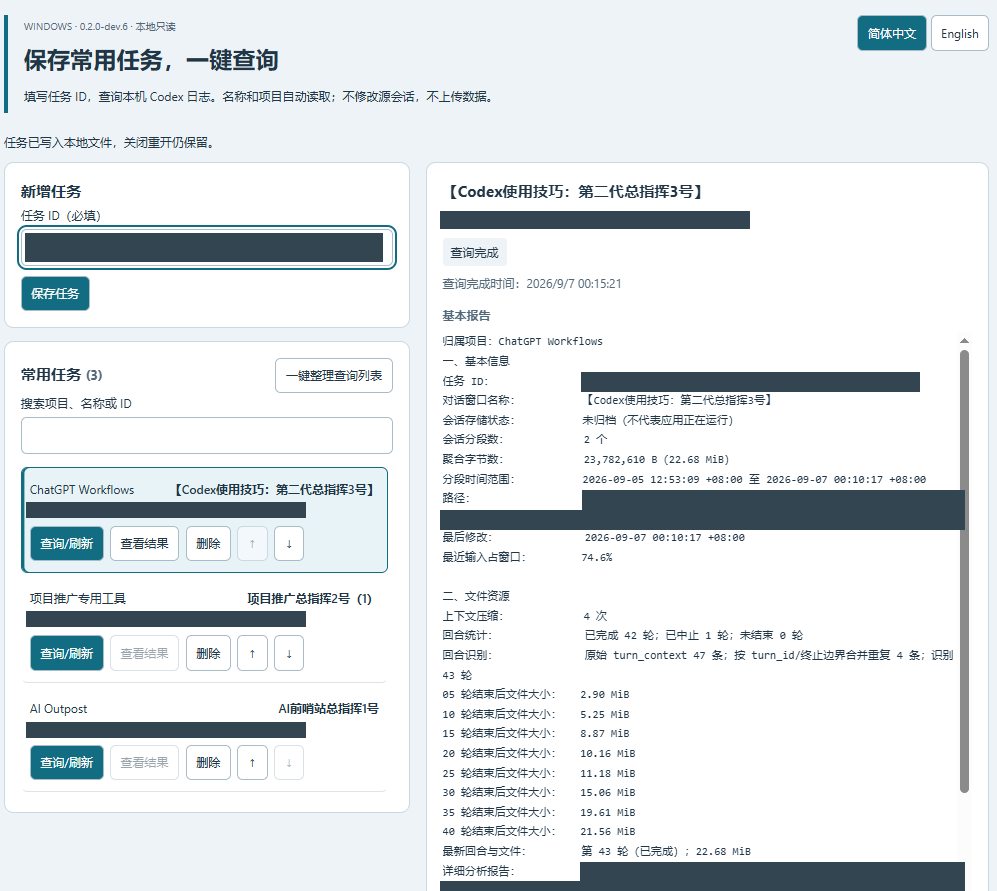
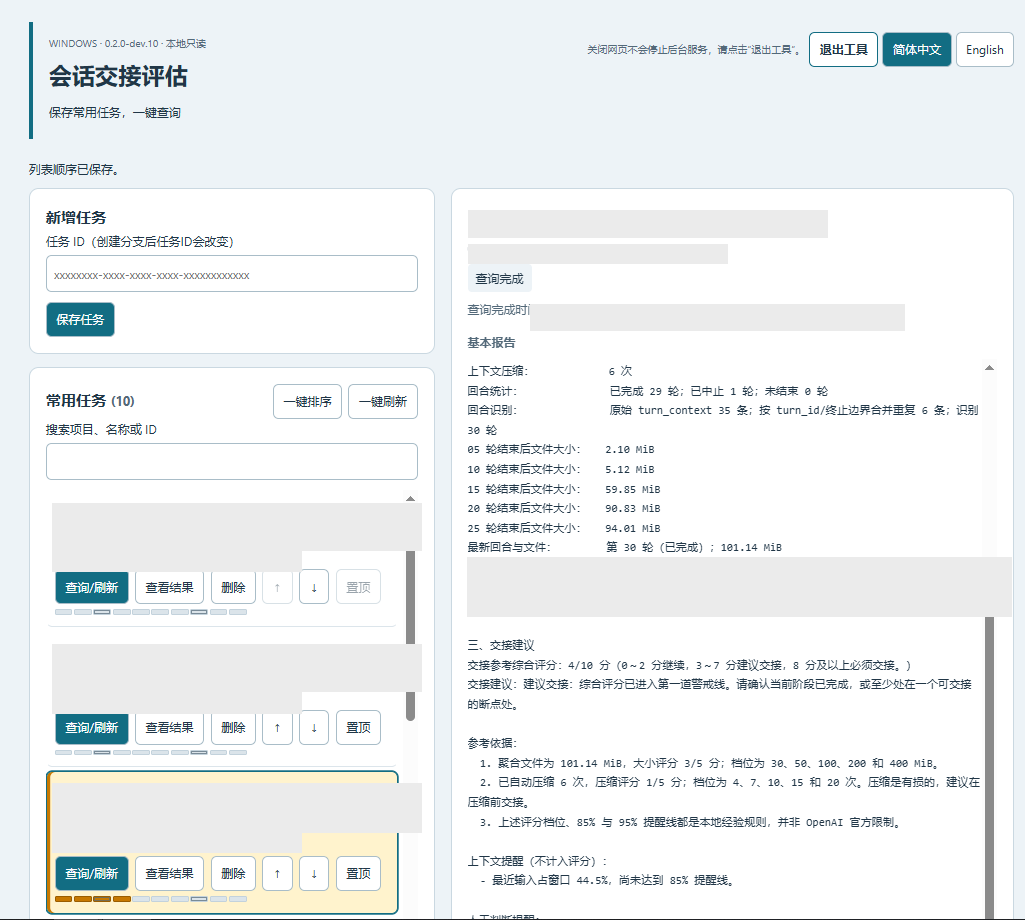
docs: add redacted showcases and English workflow entry

Changed region(s): [[0.0, 0.0, 0.995, 1.0], [0.5597, 0.0, 0.995, 0.0909]]

diff --git a/CHANGELOG.md b/CHANGELOG.md
@@ -2,6 +2,94 @@
 
 本文件记录 ChatGPT Workflows 的重要变更。
 
+## 未发布：强化“无需回传”消息的双通道反馈门禁
+
+- 将“无需向来源回传”和“必须向操作者可见反馈”拆成收到消息后的强制双通道分流步骤。
+- 明确要求立即输出已收到、实际状态和下一步；把空输出、仅工具卡片或平台完成标记列为反馈缺失，避免新任总指挥将“无需回执”误解为“无需任何输出”。
+
+### English summary
+
+- Turn the distinction between “no reply to the source” and “visible feedback to the operator is still required” into a mandatory two-channel routing step.
+- Require an immediate received/status/next-step message and classify empty output, tool cards alone, or a platform completion flag as missing feedback, preventing new commanders from interpreting “no ACK” as “no output”.
+
+## 未发布：会话交接评分第二道警戒线与十格滑条
+
+- 将交接参考分扩展为 0～10 分：文件体积与自动压缩次数各贡献 0～5 分，3 分进入“建议交接”，8 分（含 8）进入“必须交接”。
+- 任务卡片新增 10 格静态滑条、3/8 细刻度、悬停与键盘聚焦提示，并保留旧快照无评分字段时的兼容显示。
+- 上下文占用不混入会倒退的总分，85% 和 95% 改为独立提醒；这些档位是本地经验规则，不是官方限制。
+
+### English summary
+
+- Extend the handoff reference score to 0–10: file size and automatic compaction each contribute 0–5 points, with 3 entering **Handoff recommended** and 8 (inclusive) entering **Handoff required**.
+- Add a static 10-segment task-card slider with subtle 3/8 ticks and hover/focus text, while keeping legacy snapshots without score fields compatible.
+- Keep sawtooth context usage out of the cumulative score and show separate 85% and 95% reminders. These bands are local heuristics, not official limits.
+
+## 未发布：heartbeat工具结果关联失败400的证据分流
+
+- 在TRB-007补充heartbeat后持续工具结果关联失败的来源样本、匿名错误及快速处置分流，与会话过长400和自动化实例更新失败分别判断。
+- 区分来源方日志复核、本窗口报告指纹核验及官方API契约；保留请求转换与实际运行版本缺口，不把新分支可用、社区方案或曝光目标当作修复通过。
+- 反馈优先检索已有同类报告，仅在最终授权后补充最小证据；本轮未发布、修改代理、重放业务或重建自动化。
+
+### English summary
+
+- Add a source-reported case of persistent tool-output association errors after a heartbeat to TRB-007, with an anonymized signature and a separate HTTP 400 routing entry.
+- Distinguish source-side log inspection, report fingerprint verification, and the public API contract. Runtime versions and request transformations remain unverified; a working branch or community workaround does not establish a fix.
+- Prefer relevant existing reports and require final authorization before sharing minimal evidence. No publishing, proxy changes, business replay, or automation recreation was performed.
+
+## 未发布：明确总指挥交接附件与标准模板
+
+- 场景6交付明确默认主附件、补充材料条件、接收窗口及场景6A完整标准模板位置，避免操作者在多个材料入口间猜测。
+- 自动创建受阻时提供同一标准流程的人工路径；保留候选只读、停止旧写者、最终确认和必要成果可访问的门禁，不将一个快照当作跨位置源码包。
+
+### English summary
+
+- Identify the primary handoff attachment, when additional materials are required, the recipient, and the full Scene 6A template instead of leaving users to choose among multiple links.
+- Provide the same standard manual path when automated task creation is unavailable. Preserve read-only candidate verification, stopping the previous writer, final confirmation, and access to required artifacts; a snapshot is not a source transfer package.
+
+## 未发布：补齐长会话长度400的路线对照边界
+
+- 补充同一旧任务在操作者报告切换官方账号后短回复成功、切回中转后再次长度拒绝的观察；区分平台可见结果、操作者说明和未核验的实际出站路线。
+- 不再把新建任务作为唯一恢复方式；保留停止故障路线重复投递、保护未提交成果及有限验收边界，不将短回复成功当作完整业务恢复。
+
+### English summary
+
+- Record a successful short reply in the same existing task after a user-reported switch to direct account sign-in, followed by another length rejection after switching back to a relay. Separate observed outcomes, user reports, and unverified outbound routing.
+- Keep recovery options open while stopping repeated submissions on the failing route. Preserve uncommitted work and require scoped validation; a short reply does not establish full workflow recovery.
+
+## 未发布：PR审阅修复与合并后本地接续
+
+- PR标准第8节补充审阅、CI与冲突修复的影响分析和定向复验，核对隔离发布分支与未提交开发成果的包含关系，不因提交号不同就认定内容分叉。
+- 第10.1节明确按实际合并结果选择本地接续方式，不默认反向合并或覆盖工作区；补充回归留证、定位、修复与回退边界，并分开报告合并、接续和运行验收状态。
+- 沿用既有成果契约和发布/同步路由，不新增场景、提示词或长表，不扩大本地、远端和部署授权。
+
+### English summary
+
+- Add impact analysis and targeted revalidation for review, CI, and conflict fixes, including content mapping between release branches and uncommitted development work.
+- Clarify local continuation after the actual merge result, without automatic reverse integration or overwriting working trees. Preserve regression evidence and distinguish code, deployment, and data recovery.
+- Reuse existing artifact and synchronization contracts without adding prompt entry points or granting new permissions.
+
+## 未发布：合并操作手册重复提示词
+
+- 2B 与 4A 共用人工反馈模板，允许如实填写未执行或不确定，并保留对象匹配、验收证据和返工权限边界。
+- 2F 的补充反馈与收口后返工共用一个入口，由 AI 核对批次及有限返工条件；3A/3B 共用协作队列模板，保留全量、增量及不可靠截点升级规则。旧编号和定位链接继续可用。
+- 精简 2B/2D 选择说明、2C 预期结果和 6B 恢复说明；交接准备、候选核验、正式切换及其他不同权限入口仍分开，不以合并模板扩大授权。
+
+### English summary
+
+- Share one manual feedback prompt between 2B and 4A, preserving unperformed and uncertain results, evidence matching, and rework permissions.
+- Consolidate ongoing and post-completion feedback in 2F, and share one queue prompt between 3A and 3B. Keep bounded rework, full and incremental scans, checkpoint validation, and legacy navigation.
+- Shorten repeated explanations while keeping handoff preparation, candidate verification, formal switching, and distinct permission boundaries separate.
+
+## 未发布：场景 6 默认接续未提交成果
+
+- 合并重复的交接补充提示词，场景 6 单一入口明确覆盖未提交修改、必要新文件与详细证据；场景 6A 要求候选回读实际成果，不以摘要或提交号代替。
+- 区分同工作区保留、跨位置恢复和编辑器未保存内容。交接快照不等于代码传输，不新增创建任务、通信、打包、覆盖或远端权限；无法取得的必要内容继续标为缺口。
+
+### English summary
+
+- Consolidate the duplicate handoff prompt. Scene 6 includes uncommitted changes, required new files and evidence by default; Scene 6A requires reading the actual artifacts rather than relying on a summary or commit identifier.
+- Distinguish keeping files in the same worktree, restoring them elsewhere and unsaved editor buffers. A handoff snapshot does not transfer code or grant task creation, messaging, packaging, overwrite or remote permissions. Required content that cannot be obtained remains an explicit gap.
+
 ## 2026-09-10：离线 Markdown 阅读器与工作流展示
 
 - 新增离线阅读入口，支持选择原始文档、多文档切换、目录定位、正文搜索、代码复制、明暗主题和打印；首次无已记住的文件时显示空列表，不内置操作手册快照。

diff --git a/AGENTS.md b/AGENTS.md
@@ -6,9 +6,9 @@
 
 ## 跨任务来信与回执入口
 
-收到其他 AI 任务消息时，以当前实际入站事件为准，不用旧总结或压缩摘要代替新请求。消息标记 `ACK_REQUIRED` 或明确要求回复、回执时，在已有通信授权内按 [09 强制状态回执](总指挥工作流/第二代总指挥的工作模式/09-自动化授权与风险分级.md#强制状态回执与空输出兜底)回传真实状态；业务受阻也应回 `BLOCKED`，排队先确认收件、不抢占业务。结束前核对实际回传工具调用及结果，不能把本窗口文字、发送成功或平台完成当作对方已确认。纯确认未要求回复时不再索取 ACK。此入口是辅助防漏，不产生业务或通信授权，不保证宿主空回合被自动拦截；复发按 [TRB-006](故障排查与解决经验/03-跨任务通信/AI任务间消息不回复：排查与预防.md)取证，禁止反复重发业务。
+收到其他 AI 任务消息时，以当前实际入站事件为准，不用旧总结或压缩摘要代替新请求。消息标记 `ACK_REQUIRED` 或明确要求回复、回执时，在已有通信授权内按 [09 强制状态回执](总指挥工作流/第二代总指挥的工作模式/09-自动化授权与风险分级.md#强制状态回执与空输出兜底)回传真实状态；业务受阻也应回 `BLOCKED`，排队先确认收件、不抢占业务。结束前核对实际回传工具调用及结果，不能把本窗口文字、发送成功或平台完成当作对方已确认。纯确认未要求回复时不再索取 ACK。此入口是辅助防漏，不产生业务或通信授权，不保证宿主空回合被自动拦截；复发按 [TRB-006](故障排查与解决经验/03-跨任务通信/TRB-006-AI任务间消息不回复-排查与预防.md)取证，禁止反复重发业务。
 
-来源明示“无需回复”仅指不向来源回传，不免除本窗口向操作者的简短可见反馈。按 [09 本窗口反馈规则](总指挥工作流/第二代总指挥的工作模式/09-自动化授权与风险分级.md#强制状态回执与空输出兜底)说明已收到、实际处理或排队/受阻状态及下一步，不把收件冒充完成，不以消息卡或状态文件替代最终反馈，也不为纯确认启动互答。
+来源明示“无需回复”仅指不向来源回传，不免除本窗口向操作者的简短可见反馈。收到消息后先执行“双通道分流”：操作者通道必须立即输出“已收到 + 实际处理/排队/受阻状态 + 下一步”，来源通道则按回执要求和通信授权决定是否发送。按 [09 本窗口反馈规则](总指挥工作流/第二代总指挥的工作模式/09-自动化授权与风险分级.md#强制状态回执与空输出兜底)执行；不得把空输出、消息卡片、工具结果、状态文件或平台完成标记当作反馈，也不为纯确认启动互答。
 
 ## 访问边界
 
@@ -20,6 +20,11 @@
 - 缺少规则输入时，只请求“已脱敏的规则增量事件包”。
 - 执行与独立审查协作（内部子 Agent／独立任务窗口）按 `总指挥工作流/第二代总指挥的工作模式/docs/EXECUTION_AND_INDEPENDENT_REVIEW.md` 执行。执行者与独立审查者是工作项逻辑角色，可由总指挥、普通任务、专项任务或内部子 Agent 承担；独立审查者必须是执行者之外的不同 Agent 实例，不能用同一实例自审代替。载体创建、上下文/文件共享和生命周期按主规范及当前平台权限核验，不保证内部助手永久可用；明确要求独立任务窗口时不得以子 Agent 替代。存在项目总指挥时，中央调度和单写权仍唯一。在操作者明确授权的配对、工作项、通信范围与轮次内，允许双方直接转交成果、意见和修订；收口方负责启动、例外处理及最终核账，不必逐条转述。未授权或其他适用规则禁止直联时，由已获授权的收口方转交；规则文本本身不产生创建、发送或实施权限。双方不得互改文件、扩大执行范围或绕过资源、隐私、远端及人工验收门禁。
 - 任务标识仅用于运行时联络，不写入仓库文件、提交信息或日志。
+
+## 故障目录命名触发
+
+- 当操作者明确要求“整理故障排查与解决经验文件夹”“重新分类”或“重新命名”该目录下文件时，默认按 `故障排查与解决经验/README.md` 的命名约定执行：保留不可复用的 `TRB-xxx` 稳定案例编号；HTTP 文件名使用 `HTTP-<三位状态码>-TRB-<三位案例编号>-主题.md`，其他系统/协议签名使用 `ERR-...` 或 `SYS-...`；多个错误码按数字升序排列，没有确认的错误码不得写入文件名；同步更新中英文 README、正文相对链接和必要的规则引用。
+- 该触发只确定分类、命名和引用核对范围，不产生 Commit、Push、远端写入、公开发布或处理受保护/本地草稿资料的授权；若发现错误码归属或文件边界不确定，只暂停受影响文件并报告。
 
 ## 小工具对总指挥工作流的只读门禁
 
@@ -75,6 +80,8 @@
 使用者本人也可以在 AI 已说明暴露项后，逐文件确认公开一张仅包含本人本机目录标签、任务名称或其他低敏环境示例，且不含可直接识别本人的姓名、联系方式、认证账号、凭据、未遮挡任务 ID、第三方信息或业务内容的截图。该例外只绑定确认过的精确文件和展示位置，不放宽其他截图、本地路径或环境信息的默认禁止规则。`实用小工具/Codex会话交接评估/运行效果截图.png` 可见本机目录标签和任务名称，任务 ID 已遮挡；使用者已逐文件确认可在 `SHOWCASE.md` 直接展示。仓库首页只提供预览页入口，工具文档不重复嵌入大图。
 
 所有示例使用虚构占位符，例如 `OWNER/REPO`、`PR #123`、`Issue #456`、`<PROJECT_ROOT>` 和 `<COMMANDER_TASK_ID>`。发现疑似泄密信息时停止修改并上报，不覆盖、不清理证据。
+
+公开案例、运行账本、研究报告和成本复盘必须从本地原件另制脱敏副本，不得直接暂存或发布原件。公开副本除遵守上述禁项外，还必须删除或泛化真实任务/请求/会话 ID、具体项目名称、医学术语、人名、地名、公司与学校名称、账号、密码、API Key、Cookie、认证头及其他私人信息；文件名、链接目标、哈希、精确时间线、截图像素和图片元数据也要核对，能被反查的哈希不视为匿名。领域术语即使不单独构成个人信息，只要能暴露具体业务或研究对象，也不得进入公开案例。需要保留统计意义时可改用相对阶段、通用活动名称或注明已聚合的区间，不能为脱敏伪造数据。自动扫描不能替代人工语义核对；无法判断时只暂停受影响文件的公开。
 
 ### 真实运行截图的自动安置
 

diff --git a/SHOWCASE.md b/SHOWCASE.md
@@ -39,7 +39,18 @@ The Windows desk saves task IDs, detects names and projects, and provides orderi
 
 [打开工具说明 / Open the tool guide](实用小工具/Codex会话交接评估/README.md)
 
-[![Windows 会话工作台 dev.6 脱敏真实运行截图](实用小工具/Codex会话交接评估/运行效果截图.png)](实用小工具/Codex会话交接评估/运行效果截图.png)
+[![Windows 会话工作台更新版脱敏真实运行截图](实用小工具/Codex会话交接评估/运行效果截图.png)](实用小工具/Codex会话交接评估/运行效果截图.png)
 
-> 隐私说明：所有可见任务 ID、会话路径与报告路径均已实色遮挡。项目名、任务名、时间和统计值经操作者确认保留；图片仅用于本页功能展示，不构成当前状态或统计准确性的独立证明。
-> Privacy: visible task IDs, session paths and report paths are covered with opaque masks. Project/task names, times and statistics are retained with the operator’s approval. This screenshot illustrates the interface; it is not independent proof of current state or statistical accuracy.
+> 隐私说明：所有可见任务 ID、项目/任务名称、时间、会话路径与报告路径均已实色遮挡；通用统计结构保留用于说明界面。图片仅用于本页功能展示，不构成当前状态或统计准确性的独立证明。
+> Privacy: visible task IDs, project/task names, time, session paths and report paths are covered with opaque masks. Generic statistical structure is retained to explain the interface. This screenshot illustrates the interface; it is not independent proof of current state or statistical accuracy.
+
+## Codex 归档路径修复工具 / Codex archive-path repair tool
+
+该工具用于只读扫描已知的 Codex 任务路径异常，并在确认后执行修复；截图展示发现异常后的人工确认界面。
+
+This utility scans known Codex task-path anomalies and asks for confirmation before repair. The screenshot shows the manual confirmation state after an anomaly is detected.
+
+[![Codex 归档路径修复工具的脱敏真实运行截图](故障排查与解决经验/01-会话与归档/TRB-001-Windows归档路径异常/assets/codex-archive-repair-preview.png)](故障排查与解决经验/01-会话与归档/TRB-001-Windows归档路径异常/assets/codex-archive-repair-preview.png)
+
+> 隐私说明：截图未显示真实任务 ID、个人联系方式、凭据或本机路径；仅保留工具名称、通用提示和人工确认流程。
+> Privacy: no real task ID, personal contact, credential or local path is visible; the tool name, generic messages and manual confirmation flow are retained.

diff --git a/总指挥工作流/第二代总指挥的工作模式/docs/ENGLISH_ENTRY.md b/总指挥工作流/第二代总指挥的工作模式/docs/ENGLISH_ENTRY.md
@@ -1,0 +1,34 @@
+# English entry: the commander workflow
+
+This page is a compact orientation for English-speaking visitors. The Chinese manuals remain the canonical rule source and change more frequently than this overview.
+
+## What it is
+
+The commander workflow turns a natural-language goal into a controlled sequence of intake, authorization, execution, evidence-based validation, and resumable handoff. It is designed for Codex work in a local project, with explicit boundaries for files, permissions, remote services, and irreversible actions.
+
+## Minimal route
+
+1. Read the [English overview](../../../README.en.md) and the [Chinese operator manual](../01-操作者操作手册.md).
+2. In the project that Codex should modify, start a task and point it to the workflow directory.
+3. State the goal, allowed scope, exclusions, and acceptance evidence.
+4. Let the commander separate planning from execution, preserve a checkpoint, and report what was actually verified.
+
+## Core ideas
+
+- **Single accountable commander:** one window owns intake, ordering, and final reporting.
+- **Authorization is scoped:** local edits, remote writes, deployment, and external communication are separate permissions.
+- **Evidence beats claims:** “planned”, “executed”, and “verified” are different states.
+- **Handoff preserves continuity:** a snapshot records the next safe action; it does not grant new permissions or transfer code by itself.
+- **Cross-task messages use two channels:** “no reply” means no reply to the source, never no visible feedback to the operator.
+
+## Keeping this page stable
+
+Use this page as an orientation and vocabulary map, not as a translated replacement for the manuals. When a rule matters to the current task, follow the linked Chinese source and re-check its current version. Translations for a release or a specific scenario can be generated on demand without maintaining a full parallel manual.
+
+## Selected source documents
+
+- [Operator manual](../01-操作者操作手册.md)
+- [Core rules](../02-总指挥核心规则.md)
+- [State, goal changes and handoff](../04-状态、目标变更与交接规范.md)
+- [Authorization and risk levels](../09-自动化授权与风险分级.md)
+- [Independent review standard](EXECUTION_AND_INDEPENDENT_REVIEW.md)

diff --git a/README.en.md b/README.en.md
@@ -8,8 +8,8 @@ Connect natural-language goals, execution evidence, and resumable checkpoints, a
 
 [简体中文](README.md) | **English**
 
-[![Repository quality](https://github.com/RongNianXin/codex-workflows/actions/workflows/repository-quality.yml/badge.svg)](https://github.com/RongNianXin/codex-workflows/actions/workflows/repository-quality.yml)
-[![Last commit](https://img.shields.io/github/last-commit/RongNianXin/codex-workflows?label=last%20commit)](https://github.com/RongNianXin/codex-workflows/commits/main)
+[![Repository quality](https://github.com/RongNianXin/ChatGPT-Workflows/actions/workflows/repository-quality.yml/badge.svg)](https://github.com/RongNianXin/ChatGPT-Workflows/actions/workflows/repository-quality.yml)
+[![Last commit](https://img.shields.io/github/last-commit/RongNianXin/ChatGPT-Workflows?label=last%20commit)](https://github.com/RongNianXin/ChatGPT-Workflows/commits/main)
 ![License: MIT](https://img.shields.io/badge/license-MIT-2F855A.svg)
 ![Platform: Windows](https://img.shields.io/badge/platform-Windows-0078D4.svg?logo=windows11&logoColor=white)
 
@@ -105,6 +105,10 @@ The detailed manuals are currently written in Chinese. This page is an evaluatio
 
 Use the target project's workspace, not this repository's workspace, unless you are maintaining the workflow itself.
 
+### A lightweight English entry
+
+The detailed rules remain canonical in Chinese. Use the [English entry](总指挥工作流/第二代总指挥的工作模式/docs/ENGLISH_ENTRY.md) for stable orientation, terminology, and the minimum route into the workflow. It is intentionally not a full parallel translation; when a rule matters, re-check the current Chinese source.
+
 ## What is included
 
 - [ChatGPT-Web](ChatGPT-Web/README.en.md): reviewable userscripts, installation steps, and browser-permission notes for ChatGPT on the web.
@@ -154,4 +158,4 @@ The privacy claims are auditable: the real profile stays in an exact `.gitignore
 
 Released under the [MIT License](LICENSE).
 
-<!-- README-SOURCE-SHA256: 389664c526c145dfe6f6de91ca72472d3b44c9fd88a172cb62aebe2998a9c81c -->
+<!-- README-SOURCE-SHA256: f3a5a7a89d2546d3874c19c2a9e6c164fdb087aef2a234097fbe689bc4449827 -->

diff --git a/README.md b/README.md
@@ -8,8 +8,8 @@
 
 **简体中文** | [English](README.en.md)
 
-[![Repository quality](https://github.com/RongNianXin/codex-workflows/actions/workflows/repository-quality.yml/badge.svg)](https://github.com/RongNianXin/codex-workflows/actions/workflows/repository-quality.yml)
-[![Last commit](https://img.shields.io/github/last-commit/RongNianXin/codex-workflows?label=last%20commit)](https://github.com/RongNianXin/codex-workflows/commits/main)
+[![Repository quality](https://github.com/RongNianXin/ChatGPT-Workflows/actions/workflows/repository-quality.yml/badge.svg)](https://github.com/RongNianXin/ChatGPT-Workflows/actions/workflows/repository-quality.yml)
+[![Last commit](https://img.shields.io/github/last-commit/RongNianXin/ChatGPT-Workflows?label=last%20commit)](https://github.com/RongNianXin/ChatGPT-Workflows/commits/main)
 ![License: MIT](https://img.shields.io/badge/license-MIT-2F855A.svg)
 ![Platform: Windows](https://img.shields.io/badge/platform-Windows-0078D4.svg?logo=windows11&logoColor=white)
 
@@ -109,6 +109,10 @@
 
 > [!IMPORTANT]
 > 请在真正要处理的项目中打开 Codex，再登记这套规则目录。只有维护工作流本身时，才把本仓库作为目标项目。
+
+### 面向英语用户的轻量入口
+
+详细规则仍以中文文档为唯一规范源；面向英语用户的稳定导读、术语和最小使用路径见 [English entry](总指挥工作流/第二代总指挥的工作模式/docs/ENGLISH_ENTRY.md)。它不是完整英文镜像，规则发生变化时应回到中文源文件核对。
 
 ## 仓库里有什么
 
